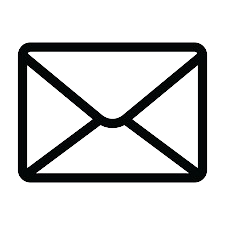
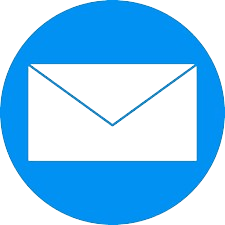
Atualizações da home page

diff --git a/public/index.html b/public/index.html
@@ -112,13 +112,17 @@
     </div>
     <div class="card">
       <h2>Valores</h2>
-      <p><b>Sustentabilidade</b> – Compromisso com a preservação do meio ambiente e a promoção de práticas que garantam um
+      <p><b>Sustentabilidade</b> – Compromisso com a preservação do meio ambiente e a promoção de práticas que garantam
+        um
         futuro mais saudável para as próximas gerações.
         <b>Pensamento empreendedor</b> – Busca constante por inovação, criatividade e soluções eficazes para transformar
         desafios em oportunidades.
-       <b>Inovação</b> – Utilização de tecnologia de ponta para desenvolver soluções eficientes no monitoramento ambiental
-       <b>Transparência</b>  – Comunicação clara e aberta com a sociedade, garantindo confiança e credibilidade em todas as
-        nossas ações.</p>
+        <b>Inovação</b> – Utilização de tecnologia de ponta para desenvolver soluções eficientes no monitoramento
+        ambiental
+        <b>Transparência</b> – Comunicação clara e aberta com a sociedade, garantindo confiança e credibilidade em todas
+        as
+        nossas ações.
+      </p>
     </div>
   </div>
   <div class="historia">
@@ -151,16 +155,20 @@
       <h4>Lucas Hernandes Furquim</h4>
     </div>
   </div>
-  <footer class="footer">
-      
-       <a href="">
-        <img class="linkedin" src="./assets/iconelink.png" alt="">
-       </a>
-       <a href="">
-        <img src="" alt="">
-       </a>
   
-  </footer>
+  <footer class="footer">
+    <h5>Fale Conosco:</h5>
+    
+    <div class="contact">
+        <img class="icon" src="./assets/iconemail.png" alt="Email">
+        <h5 class="text">respirasp@sptech.school</h5>
+    </div>
+
+    <div class="contact">
+        <img class="iconwpp" src="./assets/wpp.png" alt="WhatsApp">
+        <h5 class="text">11 996072890</h5>
+    </div>
+</footer>
 </body>
 
 </html>

diff --git a/public/css/index.css b/public/css/index.css
@@ -485,7 +485,7 @@ p {
 
 .footer{
 background-color: black;
-position: relative;
+display: flex;
 padding: 23px;
 width: 100vw;
 margin-top: -75px;
@@ -577,8 +577,34 @@ body {
   animation: fadeInScroll 0.6s ease-out forwards;
 }
 
-.linkedin{
-  position: relative;
-  height: 50px;
-  left: 10%;
+.footer h5 {
+  font-size: 18px;
+  margin-bottom: 10px;
+  color: white;
+  margin-left: 100px;
+}
+
+.contact {
+  display: flex;
+  align-items: center;
+  gap: 10px; /* Espaço entre ícone e texto */
+  margin-bottom: 10px;
+}
+
+.icon {
+  height: 30px; /* Ajuste o tamanho conforme necessário */
+  margin-left: 200px;
+  margin-top: 15px;
+}
+
+.iconwpp {
+  height: 40px; /* Ajuste o tamanho conforme necessário */
+  margin-left: 200px;
+  margin-top: 15px;
+}
+
+.text {
+  font-size: 15px;
+  color: white;
+  margin-right: 100px;
 }
